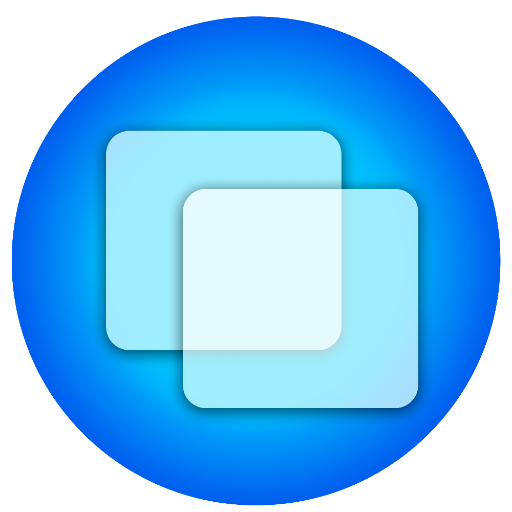
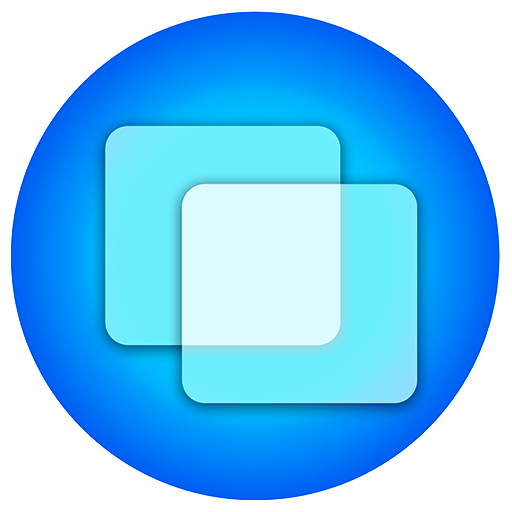
Cambios iconos PWA

diff --git a/frontend/portacloud/app/layout.js b/frontend/portacloud/app/layout.js
@@ -25,7 +25,7 @@ export default function RootLayout({ children }) {
     <html lang="es">
       <head>
         <link rel="manifest" href="/manifest.json" />
-        <meta name="theme-color" content="#000000" />
+        <meta name="theme-color" content="#0095FF" />
         <link
           rel="stylesheet"
           href="https://cdnjs.cloudflare.com/ajax/libs/font-awesome/6.7.2/css/all.min.css"
